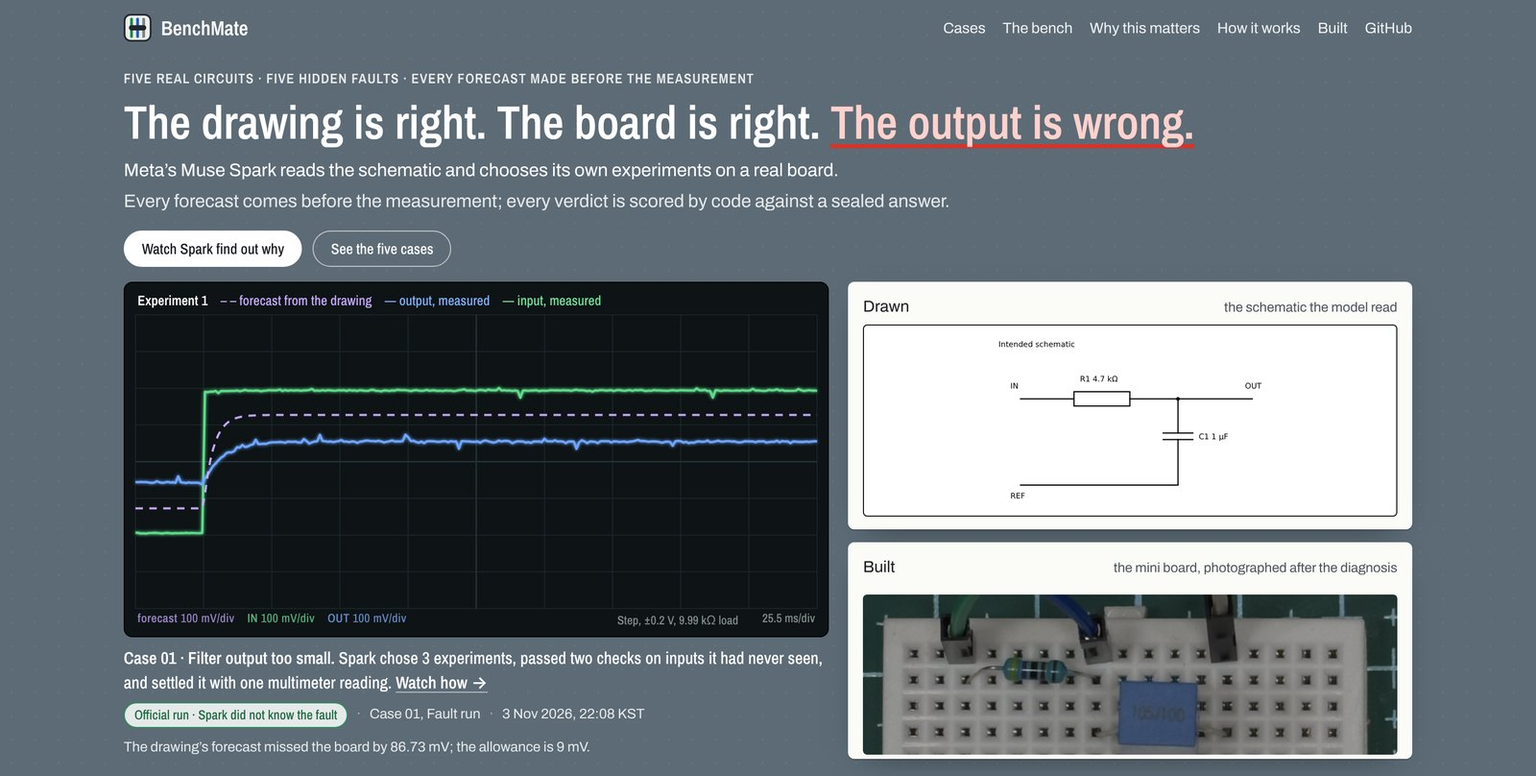
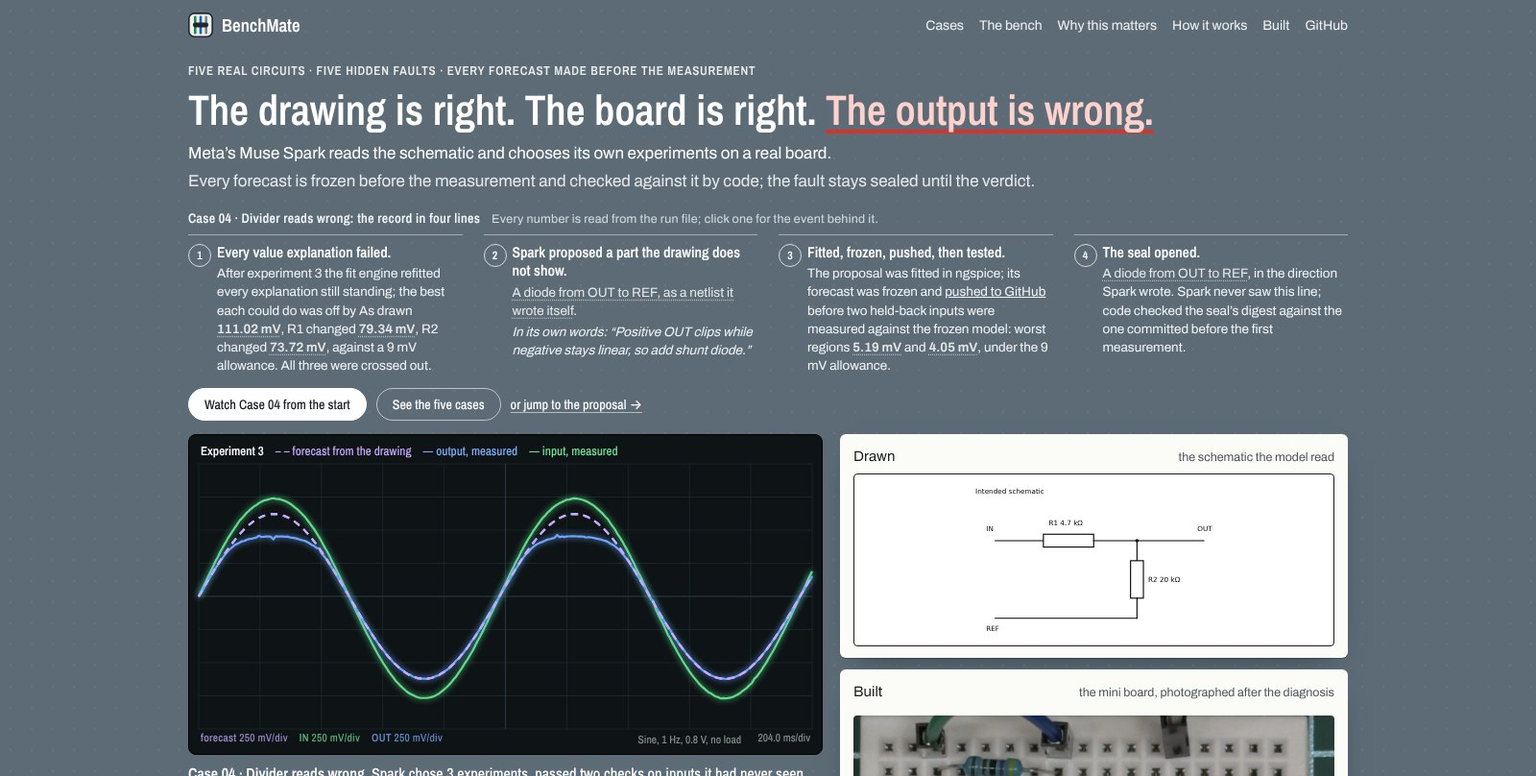
Home and README: Case 04 as the representative path, roles, evidence table
The landing's main button and hero follow policy.structure_spotlight to the
case 04 run; a four-line strip reads its numbers from the run file. README
opens with where the model contributed (cases 04, 05, 01) and who does what
(Spark, ngspice and the engine, SAM 3.1 and Spark vision, the operator), and
says plainly this is not evidence against every rule-based method.

Claude-Session: https://claude.ai/code/session_016yJ6onsusv49FZT69Jxk9m

diff --git a/site/assets/landing.js b/site/assets/landing.js
@@ -1,21 +1,36 @@
 // Landing: the claim, the scope, the numbers, then the five cases with their recorded runs. Everything shown is read from data/.
 (async () => {
-  const { $, el, expName, fmtUSD, fmtDate, schematic, boardSVG, Scope, stepTraces, stepTime, verdictWords, REDUCED, ev } = BM;
+  const { $, el, expName, fmtUSD, fmtDate, schematic, boardSVG, Scope, stepTraces, stepTime, verdictWords, kindWord, REDUCED, ev } = BM;
   const [cases, index, results, policy, census] = await Promise.all([BM.loadCases(), BM.loadRuns(), BM.loadResults(), BM.json('data/official-run-policy.json').catch(() => null), BM.json('data/census.json').catch(() => null)]);
   const runs = index.runs || [];
   for (const r of runs.filter(x => x.counted && x.state === 'faulted')) { try { const rr = await BM.loadRun(r.id); for (const g of rr.reading?.groups || []) for (const m of g.members || []) BM.names[m.id] = m.label || m.words; } catch (e) { /* no run file */ } }
-  // default source: the first official attempt for case 01 (counted, earliest start) per the preregistered
-  // policy; until one exists, the earliest pilot of case 01. Never "the best run".
-  const first = BM.defaultRun(runs, '01');
+  // the representative run: the policy's structure_spotlight names the slots, in priority order, whose first official
+  // attempt may be shown first when it contains a genuine structure proposal selected by Muse Spark (04-F01, then 05-F01).
+  // The slot's run id comes from the same policy file; the proposal is checked in the run file, never assumed. If no
+  // slot qualifies: the first official attempt for case 01 (counted, earliest start), else the earliest pilot. Never "the best run".
+  const spotlight = async () => {
+    const sp = policy?.selection?.structure_spotlight; if (!sp?.priority?.length) return null;
+    for (const slotId of sp.priority) {
+      const slot = (policy.ordered_slots || []).find(x => x.slot_id === slotId); const r = slot?.run_id && runs.find(x => x.id === slot.run_id && x.counted);
+      if (!r) continue;
+      try { const rr = await BM.loadRun(r.id); if ((rr.structure || []).some(x => x.selected_by === 'muse_spark' && x.ev)) return rr; } catch (e) { /* no run file */ }
+    }
+    return null;
+  };
+  const spotRun = await spotlight();
+  const first = spotRun ? runs.find(r => r.id === spotRun.id) : BM.defaultRun(runs, '01');
   const anyCounted = runs.some(r => r.counted);
   const c01 = cases.cases.find(c => c.id === '01');
   $('#cases-h').textContent = `${['One', 'Two', 'Three', 'Four', 'Five', 'Six', 'Seven', 'Eight'][cases.cases.length - 1] || cases.cases.length} cases from real forum threads`;
 
-  // ---- hero scope: the first experiment of the first recorded run, measurement sweeping over its forecast, on loop
+  // ---- hero scope: the representative run's decisive experiment (the one after which Spark proposed a part; else the
+  // first experiment), measurement sweeping over its forecast, on loop
   const scope = new Scope($('#hero-scope'), { fill: true });
   if (first) {
-    const run = await BM.loadRun(first.id);
-    const st = run.steps[0];
+    const run = spotRun || await BM.loadRun(first.id);
+    const prop = (run.structure || []).find(x => x.selected_by === 'muse_spark' && x.ev) || null;
+    const st = run.steps[(prop?.after_step || 1) - 1] || run.steps[0];
+    const si = st.n - 1; // each fit entry lists the residuals for every experiment so far; this experiment's is at its own index
     const traces = stepTraces(st, { measuredProgress: REDUCED ? 1 : 0 });
     scope.set(stepTime(st), traces, st.label); // the settings only; 'Experiment 1' is said in the key strip
     $('#cta-replay').href = `run.html?run=${run.id}&play=1`;
@@ -32,21 +47,65 @@
       `Spark chose ${nSteps} experiment${nSteps === 1 ? '' : 's'}${nScored ? `, passed ${nScored === 2 ? 'two' : nScored} checks on inputs it had never seen` : ''}${settled ? ', and ' + settled : ''}. `,
       el('a', { class: 'watch', href: `run.html?run=${run.id}&play=1` }, 'Watch how →'));
     // one line of provenance under it: badge · run · when · the miss the scope shows
-    const miss = nom ? (nom.decided_mV?.[0] ?? nom.miss_mV?.[0]) : null;
+    const miss = nom ? (nom.decided_mV?.[si] ?? nom.miss_mV?.[si]) : null;
     $('#hero-caption').append(el('p', {},
       el('span', { class: 'badge ' + (run.counted ? 'live' : 'pilot') }, cls),
       el('span', { class: 'it' }, `Case ${run.case}, ${run.label}`), ev(el('span', { class: 'it num' }, fmtDate(run.started_utc)), run.timeline?.[0]?.ev, { run: run.id, what: 'run start' }),
-      miss != null ? el('span', { class: 'it' }, 'The drawing’s forecast missed the board by ', ev(el('span', { class: 'num' }, `${Number(miss).toFixed(2)} mV`), st.fit_ev, { run: run.id, what: 'miss of As drawn on step 1', fields: { decided_by: nom.worst_region?.[0] ? `worst region ${nom.worst_region[0]}` : 'whole step', whole_step_RMS_mV: nom.miss_mV?.[0], regions: nom.regions?.[0], allowance_mV: run.allowance_mV } }), `; the allowance is ${run.allowance_mV} mV.`) : null));
+      miss != null ? el('span', { class: 'it' }, 'The fit engine checked the drawing’s model against this measurement: off by ', ev(el('span', { class: 'num' }, `${Number(miss).toFixed(2)} mV`), st.fit_ev, { run: run.id, what: `residual of As drawn on step ${st.n}, worst region (the fit engine’s check, not the dashed forecast’s miss)`, fields: { decided_by: nom.worst_region?.[si] ? `worst region ${nom.worst_region[si]}` : 'whole step', whole_step_RMS_mV: nom.miss_mV?.[si], regions: nom.regions?.[si], allowance_mV: run.allowance_mV } }), `; the allowance is ${run.allowance_mV} mV.`) : null));
     // the bench cards: one real line each from this same run (never the part that was read: the seal is closed on this page)
     try {
       const exCase = `Case ${run.case}`;
       $('#bench-ex-spark').append(el('b', {}, `${exCase}, experiment ${st.n}: `), `${st.label}.`, st.reason ? el('q', {}, st.reason) : null);
       const samples = st.settings?.samples, per = st.settings?.period_us;
-      $('#bench-ex-ardu').append(el('b', {}, `${exCase}, experiment ${st.n}: `), samples ? `${samples} samples${per ? ` at ${per / 1000} ms` : ''}; ` : '', miss != null ? `the drawing’s forecast missed by ${Number(miss).toFixed(2)} mV, allowance ${run.allowance_mV} mV.` : '');
+      $('#bench-ex-ardu').append(el('b', {}, `${exCase}, experiment ${st.n}: `), samples ? `${samples} samples${per ? ` at ${per / 1000} ms` : ''}; ` : '', miss != null ? `the fit engine’s check of the drawing’s model against this measurement: off by ${Number(miss).toFixed(2)} mV in its worst region, allowance ${run.allowance_mV} mV.` : '');
       const loads = run.steps.map(x => x.load_ohm ? 'on' : 'off'); const moves = loads.slice(1).filter((v, i) => v !== loads[i]).length;
       const bands = run.reading?.bands?.length || 0;
       $('#bench-ex-oper').append(el('b', {}, `${exCase}: `), moves ? `moved the load jumper ${moves === 1 ? 'once' : moves === 2 ? 'twice' : moves + ' times'} between experiments` : 'no jumper move was asked for', bands ? `; after the experiments, read one part. Its allowed range under each explanation was frozen first.` : '.');
     } catch (e) { /* the bench cards stay general */ }
+    // ---- the representative path: the proposal run's record in four lines (every number from the run file, each clickable)
+    if (prop) try {
+      const kase = cases.cases.find(c => c.id === run.case);
+      const num = (t) => el('span', { class: 'num' }, t);
+      const fails = (st.fit || []).filter(f => f.passed?.[si] === false && f.decided_mV?.[si] != null);
+      const added = (prop.diff?.added || [])[0];
+      const partWords = added ? `${kindWord(added.kind)} from ${added.a} to ${added.b}` : 'a part the drawing does not show';
+      const cap = (t) => t[0].toUpperCase() + t.slice(1);
+      const survId = run.verification?.survivors?.[0] || prop.id;
+      const scored = (run.verification?.scored || []).map(s => ({ s, c: s.conditional?.[survId] })).filter(x => x.c);
+      const allPassed = scored.length && scored.every(x => x.c.passed);
+      const sealPart = added ? (run.seal?.truth || []).find(t => t.kind === added.kind && t.nodes) : null;
+      const sealNodes = sealPart ? String(sealPart.nodes).replace(/\s/g, '').split(/→|->/) : null;
+      const sameDir = !!(sealNodes && sealNodes.length === 2 && added && sealNodes[0] === added.a && sealNodes[1] === added.b);
+      const items = [];
+      if (fails.length) items.push(el('li', {}, el('b', {}, 'Every value explanation failed.'),
+        el('span', {}, `After experiment ${st.n} the fit engine refitted every explanation still standing; the best each could do was off by `,
+          ...fails.flatMap((f, i) => [i ? ', ' : '', `${expName(f.id)} `, ev(num(`${Number(f.decided_mV[si]).toFixed(2)} mV`), st.fit_ev, { run: run.id, what: `residual of ${expName(f.id)} on step ${st.n}, worst region (the fit engine’s check after refitting)`, fields: { decided_by: f.worst_region?.[si] ? `worst region ${f.worst_region[si]}` : 'whole step', whole_step_RMS_mV: f.miss_mV?.[si], allowance_mV: run.allowance_mV } })]),
+          `, against a ${run.allowance_mV} mV allowance. All ${fails.length === 2 ? 'two' : fails.length === 3 ? 'three' : fails.length} were crossed out.`)));
+      items.push(el('li', {}, el('b', {}, 'Spark proposed a part the drawing does not show.'),
+        el('span', {}, ev(el('span', {}, `${cap(partWords)}, as a netlist it wrote itself`), prop.ev, { run: run.id, what: 'structure proposed', fields: { selected_by: prop.selected_by, added: (prop.diff?.added || []).map(x => `${x.name} ${x.kind} ${x.a}–${x.b}`).join(', ') } }), '.',
+          prop.rationale ? el('q', {}, prop.rationale) : null)));
+      if (scored.length) {
+        const v = run.verification;
+        const misses = scored.flatMap((x, i) => [i ? ' and ' : '', ev(num(`${Number(x.c.decided_mV).toFixed(2)} mV`), x.s.ev, { run: run.id, what: `held-back input ${x.s.index} scored: the frozen model driven by the measured input, worst region`, fields: { decided_by: x.c.worst_region ? `worst region ${x.c.worst_region}` : 'whole step', whole_step_RMS_mV: x.c.RMS_mV, passed: x.c.passed, allowance_mV: run.allowance_mV, input: x.s.settings } })]);
+        items.push(el('li', {}, el('b', {}, 'Fitted, frozen, pushed, then tested.'),
+          el('span', {}, 'The proposal was fitted in ngspice; its forecast was frozen and ',
+            v.published && v.url ? el('a', { href: v.url, target: '_blank', rel: 'noopener' }, 'pushed to GitHub') : 'frozen',
+            ` before ${scored.length === 2 ? 'two' : scored.length} held-back input${scored.length === 1 ? '' : 's'} ${scored.length === 1 ? 'was' : 'were'} measured against the frozen model: worst region${scored.length === 1 ? '' : 's'} `, ...misses, `, ${allPassed ? 'under' : 'against'} the ${run.allowance_mV} mV allowance.`)));
+      }
+      if (run.seal?.opened_ev && sealPart && sealNodes?.length === 2) {
+        items.push(el('li', {}, el('b', {}, 'The seal opened.'),
+          el('span', {}, ev(el('span', {}, `${cap(kindWord(sealPart.kind))} from ${sealNodes[0]} to ${sealNodes[1]}`), run.seal.opened_ev, { run: run.id, what: 'seal opened', fields: { sealed_sha256: run.seal.sealed_sha256, matches_commitment: run.seal.matches_commitment, location: sealPart.location } }),
+            sameDir ? ', in the direction Spark wrote.' : '.',
+            run.seal.transmitted_to_model === false ? ' Spark never saw this line' : '', run.seal.matches_commitment ? '; code checked the seal’s digest against the one committed before the first measurement.' : '.')));
+      }
+      if (items.length >= 3) {
+        $('#path-h').append(el('span', {}, `Case ${run.case} · ${kase.title}: the record in ${['one', 'two', 'three', 'four'][items.length - 1]} lines`), el('small', {}, 'Every number is read from the run file; click one for the event behind it.'));
+        $('#path-steps').append(...items); $('#path').hidden = false;
+        const tp = (run.timeline || []).find(t => t.kind === 'structure_proposed' && t.id === prop.id)?.t_play;
+        if (tp) { const j = $('#cta-jump'); j.href = `run.html?run=${run.id}&t=${Math.max(0, Math.floor(tp - 2))}&play=1`; j.hidden = false; }
+        $('#cta-replay').textContent = `Watch Case ${run.case} from the start`;
+      }
+    } catch (e) { console.warn('representative path not shown', e); }
     if (!REDUCED) {
       const meas = traces.filter(t => t.kind !== 'fc'); let t0 = performance.now();
       const loop = (now) => { const ph = ((now - t0) / 1000) % 6.5; const p = Math.min(1, ph / 3.2); for (const t of meas) t.progress = p; scope.draw(); requestAnimationFrame(loop); };
@@ -66,6 +125,7 @@
     $('#score').hidden = false;
     $('#score-note').append(el('span', {}, `${results.official_runs.length} official runs on the real bench: every forecast frozen before its measurement and checked by code; every fault sealed until the verdict.`), el('small', {}, `Updated ${fmtDate(results.updated_utc)}`));
     for (const m of results.metrics) { const usd = m.label.includes('(USD)'); $('#score-grid').append(el('div', { class: 'k' }, el('b', {}, m.value == null ? '—' : usd ? '$' + m.value : m.value), el('span', {}, usd ? m.label.replace(' (USD)', '') : m.label))); }
+    try { const m = (id) => results.metrics.find(x => x.id === id)?.value; const pr = m('proposals'), rd = m('readings'); if (pr != null && rd != null) $('#frontier-counts').textContent = `On this bench: ${pr} parts proposed that the drawing does not show, ${rd} readings asked for, counted from the records. `; } catch (e) { /* the note stays general */ }
     $('#score-foot').textContent = (census?.sentence ? census.sentence + ' ' : 'Counts, not a rate: stopped, abstained and miswired attempts are in the public ledger and named on the reports. ') + 'Costs are estimates at the published rates.';
   }
 

diff --git a/site/index.html b/site/index.html
@@ -4,7 +4,7 @@
 <meta charset="utf-8">
 <meta name="viewport" content="width=device-width, initial-scale=1">
 <title>BenchMate — forecast-first experiments on a real circuit</title>
-<meta name="description" content="BenchMate: a first-power-on diagnostic for real hardware. Muse Spark reads the drawing, designs experiments on the real circuit, freezes every forecast before the bench measures, and finds where the board and the drawing disagree.">
+<meta name="description" content="BenchMate: a first-power-on diagnostic for real hardware. Muse Spark reads the drawing and chooses experiments on the real circuit; every forecast is frozen before the bench measures; the model finds where the board and the drawing disagree.">
 <link rel="preconnect" href="https://fonts.googleapis.com"><link rel="preconnect" href="https://fonts.gstatic.com" crossorigin>
 <link href="https://fonts.googleapis.com/css2?family=Archivo:wght@400;500;600&family=Archivo+Narrow:wght@500;600;700&display=swap" rel="stylesheet">
 <link rel="stylesheet" href="assets/v3.css">
@@ -20,7 +20,11 @@
   <p class="eyebrow">Five real circuits · five hidden faults · every forecast made before the measurement</p>
   <h1 class="oneline"><span class="nw">The drawing is right.</span> <span class="nw">The board is right.</span> <span class="wrong nw">The output is wrong.</span></h1>
   <p class="sub"><span class="ln">Meta’s Muse Spark reads the schematic and chooses its own experiments on a real board.</span> <span class="ln">Every forecast is frozen before the measurement and checked against it by code; the fault stays sealed until the verdict.</span></p>
-  <div class="ctas"><a class="btn" id="cta-replay" href="run.html">Watch Spark find out why</a><a class="btn ghost" href="#cases" id="cta-cases">See the five cases</a></div>
+  <div class="path" id="path" hidden>
+    <p class="path-h" id="path-h"></p>
+    <ol class="path-steps" id="path-steps"></ol>
+  </div>
+  <div class="ctas"><a class="btn" id="cta-replay" href="run.html">Watch Spark find out why</a><a class="btn ghost" href="#cases" id="cta-cases">See the five cases</a><a class="jump" id="cta-jump" href="run.html" hidden>or jump to the proposal →</a></div>
 </section>
 
 <section class="hero" aria-label="The scope">
@@ -51,7 +55,7 @@
     <p class="deck" id="cases-count"></p>
     <ul class="facts" aria-label="How the cases were run">
       <li><b>Two runs per case</b>A diagnosis on the faulted board, then the same procedure again after the fault was repaired.</li>
-      <li><b>Spark was never told</b>which fault was planted. The seal was opened only after its verdict, and compared by code.</li>
+      <li><b>Spark was never told</b>which fault was planted. The seal was opened only after its verdict; code checks its digest against the one committed before the first measurement.</li>
       <li><b>Same procedure every time</b>Same test menu, same fixture, same rules; only the drawing changes.</li>
       <li><b>Replays are the logs</b>Each one is the recorded run played from its log, forecasts first. Click any number for the event behind it.</li>
     </ul>
@@ -145,30 +149,15 @@
 <section class="section" id="frontier">
   <div class="paper">
     <h2>Why this matters</h2>
-    <p class="deck">Not a circuit tester: a test of whether a model can do the basic move of experimental science on a real system.</p>
-    <ul class="facts" aria-label="The basic move">
-      <li><b>Say what it expects</b>before the measurement, with the forecast hashed so it cannot be changed afterwards.</li>
-      <li><b>Be held to it</b>by code: a miss above the allowance, against the measurement, crosses the explanation out. The fault stays sealed.</li>
-      <li><b>Keep going</b>until one explanation is left, proposing a part the drawing lacks when none survives.</li>
+    <p class="deck">The first power-on of a new board, when the output is not what the drawing says. The question at the bench is what to measure next, and which part to check.</p>
+    <ul class="facts" aria-label="Who did what">
+      <li><b>Muse Spark</b>chooses each experiment from the fixed menu, reads the misses, proposes new circuit structure when every value explanation has failed, and asks for a reading when the waveforms cannot decide.</li>
+      <li><b>ngspice and the engine</b>do the numerical fitting, the waveform forecasts, the miss against the 9 mV allowance and the rule-out. Every forecast is hashed before the bench moves.</li>
+      <li><b>SAM 3.1 and Spark vision</b>say which body on the board photo is which part, after the diagnosis. No value is read from a photo.</li>
+      <li><b>The operator</b>moves the jumper and reads the multimeter when asked, and never tells the model the fault.</li>
     </ul>
-    <p class="small muted" style="margin:-6px 0 14px">A circuit was the cheapest real system where that could be done honestly in one week.</p>
-    <h3 class="sub">The loop needs six things, none of them electronic</h3>
-    <ol class="needs">
-      <li><b>A description of what was intended</b><span>here: the schematic image</span></li>
-      <li><b>Explanations the model may propose</b><span>here: a changed value, or a part the drawing lacks</span></li>
-      <li><b>A simulator that turns one into a forecast</b><span>here: ngspice</span></li>
-      <li><b>An instrument with a fixed menu</b><span>here: steps and sines, with or without a load</span></li>
-      <li><b>A person for what the instrument cannot do</b><span>here: move one jumper, read one part</span></li>
-      <li><b>A sealed truth to score against</b><span>here: the assembly record, hashed first</span></li>
-    </ol>
-    <p class="small muted">Specific to this bench, and to be qualified again anywhere else: the 9 mV allowance, the menu, the calibration.</p>
-    <h3 class="sub">What it would take elsewhere <span class="muted" style="font-weight:400">— not done here; stated so the scale of the step is clear</span></h3>
-    <div class="elsewhere">
-      <div><b>A real PCB at first power-on</b><span>Schematic and layout as the description, SPICE as the simulator, a bench supply and scope as the menu. The reading stage is the probe in the operator's hand.</span></div>
-      <div><b>A thermal or mechanical rig</b><span>A CAD or thermal model, a finite-element solver, thermocouples and actuators. Forecast first, held-back check, sealed fault: unchanged.</span></div>
-      <div><b>A lab experiment</b><span>Candidate models of the phenomenon; the settings the apparatus allows as the menu; the forecast pushed before the run.</span></div>
-    </div>
-    <p class="frontier-line">The experiments on this page did not exist until the model asked for them. The circuit is the smallest honest place to show that.</p>
+    <p class="small muted" style="margin:-6px 0 14px" id="frontier-note">The rule for all four: say what to expect before the measurement, be held to it by code, keep going until one explanation is left. <span id="frontier-counts"></span>That shows where the model contributed. It is not evidence that the model beats every rule-based method: on the earlier synthetic linear benchmark, an engine with a fixed plan reached the same count (<a href="https://github.com/bami-codes/BenchMate#earlier-development-results-29-oct--2-nov">development results</a>).</p>
+    <p class="frontier-line">The loop needs six things and none of them is electronic — a description of what was intended, explanations the model may propose, a simulator, an instrument with a fixed menu, a person for what the instrument cannot do, a sealed truth — so the same loop could run on a real PCB at first power-on, a thermal rig or a lab experiment. Not done here: the 9 mV allowance, the menu and the calibration would have to be qualified again.</p>
   </div>
 </section>
 
@@ -196,7 +185,7 @@
     <div class="made" aria-label="What was built"><span>firmware</span><span>bench</span><span>fit engine</span><span>Spark tool loop</span><span>reading and seal protocol</span><span>photo stage</span><span>this site</span><span>five physical runs</span><em>The first commit is the start of the project.</em></div>
     <div class="built-grid">
       <div><h3>Meta models</h3><p class="small">Muse Spark 1.3 (agent and vision) through the Meta Model API for every experiment choice, structure proposal, schematic read and body call; SAM 3.1 for every board segmentation. 101 Spark calls and 6 SAM calls across the five cases, about $1.01.</p></div>
-      <div><h3>What is new</h3><p class="small">The model is not asked to explain a measurement someone made. It designs the measurement, commits to its forecast first, and is checked by code against the measurement; the fault it was never told stays sealed until the verdict. The experiments did not exist until the model asked for them.</p></div>
+      <div><h3>What is new</h3><p class="small">The model is not asked to explain a measurement someone made. It chooses the measurement; the forecast is frozen first and code checks it against the measurement; the fault it was never told stays sealed until the verdict. The experiments did not exist until the model asked for them.</p></div>
       <div><h3>What is not claimed</h3><p class="small">Five completed cases are not an accuracy rate. Failed and abstained attempts are kept in the public ledger and named on the reports. Restored reruns show "no mismatch in the tests Spark chose", not a proof that every part is correct. The cases were known to the developers; this is not a blind test.</p></div>
       <div><h3>Open</h3><p class="small">MIT-licensed repository with every event log, forecast hash, Spark request and the offline verifier.</p><a class="btn sm" href="https://github.com/bami-codes/BenchMate">Repository on GitHub</a></div>
     </div>

diff --git a/site/assets/v3.css b/site/assets/v3.css
@@ -109,6 +109,13 @@ p{margin:0}
 .transport .seal{white-space:nowrap;display:inline-flex;align-items:center;gap:6px;font-size:12.5px;padding:4px 9px;border-radius:4px;background:rgba(0,0,0,.28);border:1px dashed rgba(255,255,255,.5)}
 .transport .seal.open{border-style:solid;border-color:var(--fault);background:rgba(213,52,44,.25)}
 .transport .seal.stopped{border-color:var(--tape);background:rgba(243,210,90,.18)}
+/* key moments: one quiet row under the transport (the same block titles the notebook uses), ticks on the scrubber; kept in the compact shelf so a jump is always one click away, dropped on phones */
+.jumps{grid-column:1/-1;display:flex;flex-wrap:wrap;align-items:baseline;gap:4px 14px;color:#fff;font:500 12.5px/1.3 var(--narrow);margin-top:-4px}
+.jumps .lab{opacity:.7}
+.jumps button{background:none;border:0;padding:2px 0;color:#fff;font:inherit;opacity:.88;cursor:pointer;text-decoration:underline;text-decoration-style:dotted;text-underline-offset:3px;border-radius:3px}
+.jumps button:hover,.jumps button:focus-visible{opacity:1;text-decoration-style:solid}
+.jumps button .num{opacity:.7;margin-left:5px}
+@media (max-width:900px){.jumps{display:none}}
 
 /* ---------- notebook ---------- */
 .book-wrap{max-width:1240px;margin:18px auto 60px;padding:0 16px;display:grid;grid-template-columns:minmax(0,1fr);gap:18px;align-items:start}
@@ -707,3 +714,24 @@ footer a{color:#fff}
 .verdict-card .vs.planted .big{font-size:19px}
 .meter .tag{max-width:calc(100% - 8px);white-space:normal;text-align:center;line-height:1.15;right:4px;transform:rotate(-1.2deg)} /* the label never runs past its meter */
 .meter .read{gap:8px}
+
+/* round 4q: the representative path — the proposal run's record in four lines on the mat, before the buttons (landing only) */
+.claim-top .path{margin:16px 0 0;color:#fff}
+.claim-top .path-h{max-width:none;font:600 14px/1.3 var(--narrow);letter-spacing:.02em;margin:0 0 8px;display:flex;flex-wrap:wrap;gap:4px 12px;align-items:baseline}
+.claim-top .path-h small{font:400 12.5px/1.3 var(--sans);opacity:.8}
+.claim-top .path-steps{list-style:none;margin:0;padding:0;display:grid;grid-template-columns:repeat(4,minmax(0,1fr));gap:10px 22px;counter-reset:ps}
+.claim-top .path-steps li{border-top:1px solid rgba(255,255,255,.45);padding:8px 0 0 30px;position:relative;font-size:13.5px;line-height:1.42}
+.claim-top .path-steps li::before{counter-increment:ps;content:counter(ps);position:absolute;left:0;top:9px;width:22px;height:22px;border-radius:50%;border:1.5px solid rgba(255,255,255,.75);display:grid;place-items:center;font:600 12px/1 var(--narrow)}
+.claim-top .path-steps b{display:block;font:600 15.5px/1.25 var(--narrow);margin-bottom:3px}
+.claim-top .path-steps span{opacity:.92}
+.claim-top .path-steps q{display:block;margin-top:3px;font-style:italic}
+.claim-top .path-steps q::before{content:"In its own words: \201C"}.claim-top .path-steps q::after{content:"\201D"}
+.claim-top .path-steps a{color:#fff}
+.claim-top .path-steps .num{font-weight:600;white-space:nowrap}
+.claim-top .path .ev{text-decoration-color:rgba(255,255,255,.6)}
+.claim-top .path .ev:hover{background:rgba(255,255,255,.16)}
+.claim-top .ctas{align-items:center}
+.claim-top .ctas .jump{color:#fff;font:500 14px/1.2 var(--narrow);text-decoration:underline;text-decoration-color:rgba(255,255,255,.55);text-underline-offset:3px}
+.claim-top .ctas .jump:hover{text-decoration-color:#fff}
+@media (max-width:1000px){.claim-top .path-steps{grid-template-columns:repeat(2,minmax(0,1fr))}}
+@media (max-width:560px){.claim-top .path-steps{grid-template-columns:1fr;gap:8px}}

diff --git a/docs/submission.md b/docs/submission.md
@@ -4,7 +4,7 @@
 
 (Two other entries in this hackathon are also called BenchMate; the subtitle is on the form, the video title card, the README and the repository description so the three stay distinct.)
 
-**Tagline (one line):** Muse Spark designs experiments on a real circuit, forecasts each one before a $40 Arduino bench measures it, and finds the sealed fault.
+**Tagline (one line):** Muse Spark chooses experiments on a real circuit; every forecast is frozen before a $40 Arduino bench measures; the sealed fault is found.
 
 **Track:** Indie Developer · **Problem statement:** Push the Frontier
 
@@ -22,9 +22,11 @@ Five problems from real forum threads were rebuilt as small circuits, each with 
 
 Counted from the records: across the five cases, 13 registered workflow attempts started 15 diagnostic runs; 3 stopped before a verdict, 2 abstained, 10 returned a verdict, and those 10 are the runs replayed on the site (5 fault diagnoses with held-back checks passed, 2 structure proposals, 4 readings, 5 seals matched, 5 restored reruns). 101 Muse Spark calls and 6 SAM 3.1 calls, about $1.01, including the stopped and abstained attempts. Every attempt is in the public ledger and named on the reports. These are counts, not an accuracy rate. The model never saw the fault; the developer knew it: model-blind, not a blind trial of the team.
 
-Why this is the frontier and not a circuit tester: the model is not asked to explain a measurement somebody made. It designs the measurement, commits to a forecast first, and is checked by code against measurements it had not yet seen, with the fault sealed until the verdict. The loop needs six things and nothing more — a description of what was intended, a space of explanations, a simulator, an instrument with a menu, a person for what the instrument cannot do, and a sealed truth — and none of the six is specific to electronics. A circuit was the cheapest real system where that loop could be run honestly in nine days. The experiments in this demo did not exist until the model asked for them.
+Why this is the frontier and not a circuit tester: the model is not asked to explain a measurement somebody made. It chooses the measurement; the simulator forecasts it before the bench moves; code holds the forecast to measurements the model had not yet seen, with the fault sealed until the verdict. The loop needs six things and nothing more — a description of what was intended, a space of explanations, a simulator, an instrument with a menu, a person for what the instrument cannot do, and a sealed truth — and none of the six is specific to electronics. A circuit was the cheapest real system where that loop could be run honestly in nine days. The experiments in this demo did not exist until the model asked for them.
 
 **How Meta's models are used**
+
+Who does what, in four lines. Muse Spark chooses each experiment from the fixed menu, interprets the misses, proposes new circuit structure when every value explanation has failed, and asks for a reading when the waveforms cannot decide. ngspice and the engine do the numerical fitting, the waveform forecasts, the miss against the 9 mV allowance and the rule-out. SAM 3.1 and Spark vision say which body on the board photo is which part. The operator moves jumpers, reads the multimeter, and never tells the model the fault. Where the model contributed is visible in the records: the two structure proposals (cases 04, 05) and the four readings it asked for; this is not evidence that it beats every rule-based method, and the earlier synthetic linear benchmark, where an engine with a fixed plan also reached 24/24, is in the README.
 
 Muse Spark 1.3 (Meta Model API) is the agent: it chooses every experiment with a reason, asks for rewiring, decides when to run the held-back check, proposes new netlists when every value explanation has failed, and chooses which part to read and which quantity. Muse Spark vision reads each schematic image into parts and connections before the run and, after the diagnosis, looks at the board photo with SAM 3.1's bodies and names the one that is the part to read (or says it cannot). SAM 3.1 segments the mini board photo with one generic prompt; its native masks are the only outlines shown and no part value is ever read from a photo. Muse Spark Open (Baseten) ran the earlier synthetic benchmark as a development comparison. Spark is never told the fault, the assembly or the operator's reading before it is scored; for the photo stage it receives the operator-confirmed port positions of IN, OUT and REF, never a hidden part. Every request and response is in the records.
 
@@ -40,4 +42,4 @@ Everything, 27 October – 4 November 2026, by one person with Codex and Claude 
 
 **Short version (if the form caps length)**
 
-BenchMate gives Muse Spark a real $40 Arduino bench. It reads the schematic, chooses experiments from a fixed menu, and must forecast each one (hashed, then pushed to GitHub) before the bench measures. Explanations that miss by more than 9 mV are crossed out; when none survive, Spark proposes a part the drawing lacks; when two give the same waveforms, Spark names one part to read with ranges frozen first. Five faults from real forum threads were planted and sealed as digests before measurement; Spark narrowed all five to the planted fault (two by proposing hidden parts), and each case ended with a restored rerun that reported no mismatch. 13 registered attempts started 15 diagnostic runs; 3 stopped, 2 abstained, 10 reached a verdict and are replayed on the site; 101 Spark calls, 6 SAM 3.1 calls, about $1.01. Every attempt, including the stopped and abstained ones, is in the public ledger, and one command verifies any run offline. The experiments did not exist until the model asked for them.
+BenchMate gives Muse Spark a real $40 Arduino bench. It reads the schematic and chooses experiments from a fixed menu; ngspice forecasts each one, and the forecast is hashed (and, before the held-back check, pushed to GitHub) before the bench measures. Explanations that miss by more than 9 mV are crossed out; when none survive, Spark proposes a part the drawing lacks; when two give the same waveforms, Spark names one part to read with ranges frozen first. Five faults from real forum threads were planted and sealed as digests before measurement; Spark narrowed all five to the planted fault (two by proposing hidden parts), and each case ended with a restored rerun that reported no mismatch. 13 registered attempts started 15 diagnostic runs; 3 stopped, 2 abstained, 10 reached a verdict and are replayed on the site; 101 Spark calls, 6 SAM 3.1 calls, about $1.01. Every attempt, including the stopped and abstained ones, is in the public ledger, and one command verifies any run offline. The experiments did not exist until the model asked for them.

diff --git a/README.md b/README.md
@@ -2,13 +2,30 @@
 
 **The drawing is right. The board is right. The output is wrong.**
 
-Meta's Muse Spark reads the schematic and chooses its own experiments on a real board. Every forecast is frozen before the measurement and checked against it by code; the planted fault stays sealed until the verdict. Five faults were planted on five small circuits; the model narrowed each disagreement between board and drawing to one question, asking for one multimeter reading where the waveforms could not decide, and every step is a record you can verify offline.
+That is the first power-on of a new board, when the output is not what the drawing says. The question at the bench is what to measure next, and which part to check. BenchMate gives that question to Meta's Muse Spark on a real board. It reads the schematic and chooses its own experiments; every forecast is frozen before the measurement and checked against it by code; the planted fault stays sealed until the verdict. Five faults were planted on five small circuits; the model narrowed each disagreement between board and drawing to one question, asking for one multimeter reading where the waveforms could not decide, and every step is a record you can verify offline.
 
-Submitted to **Push the Frontier**: a model given a new capability on a physical system, the experiments designed, forecast and defended by the model itself. Who it is for: the first power-on of a new board, the repair bench, the teaching lab; and, with another simulator and another instrument, anywhere a model can be made to forecast before it measures.
+Where the model contributed, from the records:
+
+| Case | When the waveforms ran out | What Spark did | How it was checked | What the seal held |
+|---|---|---|---|---|
+| **04** [Divider reads wrong](https://bami-codes.github.io/BenchMate/run.html?run=20261103T150223-18d6f08ac9&play=1) | Every value explanation failed. | Proposed a part the drawing does not show: a diode from OUT to REF, as a netlist it wrote itself. | The proposal was fitted, its forecast frozen and pushed; the two held-back inputs then missed the frozen model by **5.19 mV** and **4.05 mV** at worst (allowance 9 mV). | A 1N4148 from OUT to REF, off the board. |
+| **05** [Volts lost on a breadboard](https://bami-codes.github.io/BenchMate/run.html?run=20261104T021333-c80ef3617e&play=1) | Every value explanation failed. | Proposed a resistor in place of the drawn wire W1. | Held-back checks passed; one extra reading of the isolated W1 path (**0 Ω**) placed the resistance off the board. | 20 kΩ off the board. |
+| **01** [Filter output too small](https://bami-codes.github.io/BenchMate/run.html?run=20261103T125924-bf8f64512b&play=1) | Two explanations gave the same waveforms (the engine's rule). | Recognised that the waveforms could not separate them and asked for one multimeter reading of R1. | Bands frozen first; R1 read **4.71 kΩ**, inside one band only. | R1 4.7 kΩ on the board, two 10 kΩ off it. |
+
+These rows show where the model contributed. They are not evidence that it beats every rule-based method: on the earlier synthetic linear benchmark, the engine with a fixed plan also reached 24/24 ([Earlier development results](#earlier-development-results-29-oct--2-nov)).
+
+Who does what:
+
+- **Muse Spark** chooses each experiment from the fixed menu, interprets the misses, proposes new circuit structure when every value explanation has failed, and asks for a reading when the waveforms cannot decide.
+- **ngspice and the engine** do the numerical fitting, the waveform forecasts, the miss against the 9 mV allowance and the rule-out.
+- **SAM 3.1 and Spark vision** say which body on the board photo is which part.
+- **The operator** moves jumpers, reads the multimeter, and never tells the model the fault.
+
+Submitted to **Push the Frontier**: a model given a real bench, where it chooses the experiments and proposes what the drawing lacks, while a simulator forecasts, code scores, and a person moves the wires. Who it is for: the first power-on of a new board, the repair bench, the teaching lab; and, with another simulator and another instrument, anywhere a model can be made to forecast before it measures.
 
 **[Open the live demo](https://bami-codes.github.io/BenchMate/)** — five recorded diagnoses replayed from their logs, every number clickable to the event behind it. No installation, no API key.
 
-[![The landing page: the first experiment on the scope with the forecast dashed and the measured input and output drawn over it, the drawing the model read and the board photo](site/assets/readme/landing-fold.jpg)](https://bami-codes.github.io/BenchMate/)
+[![The landing page: case 04's record in four lines (every value explanation failed; Spark proposed a diode from OUT to REF; frozen, pushed, two held-back inputs within the allowance; the seal opened), then experiment 3 on the scope with the drawing's forecast dashed and the measured input and output over it, the drawing the model read and the board photo](site/assets/readme/landing-fold.jpg)](https://bami-codes.github.io/BenchMate/)
 
 The experiments on that page did not exist until the model asked for them. That is the capability this project shows; a circuit on a $40 bench is the smallest honest place to show it.
 
